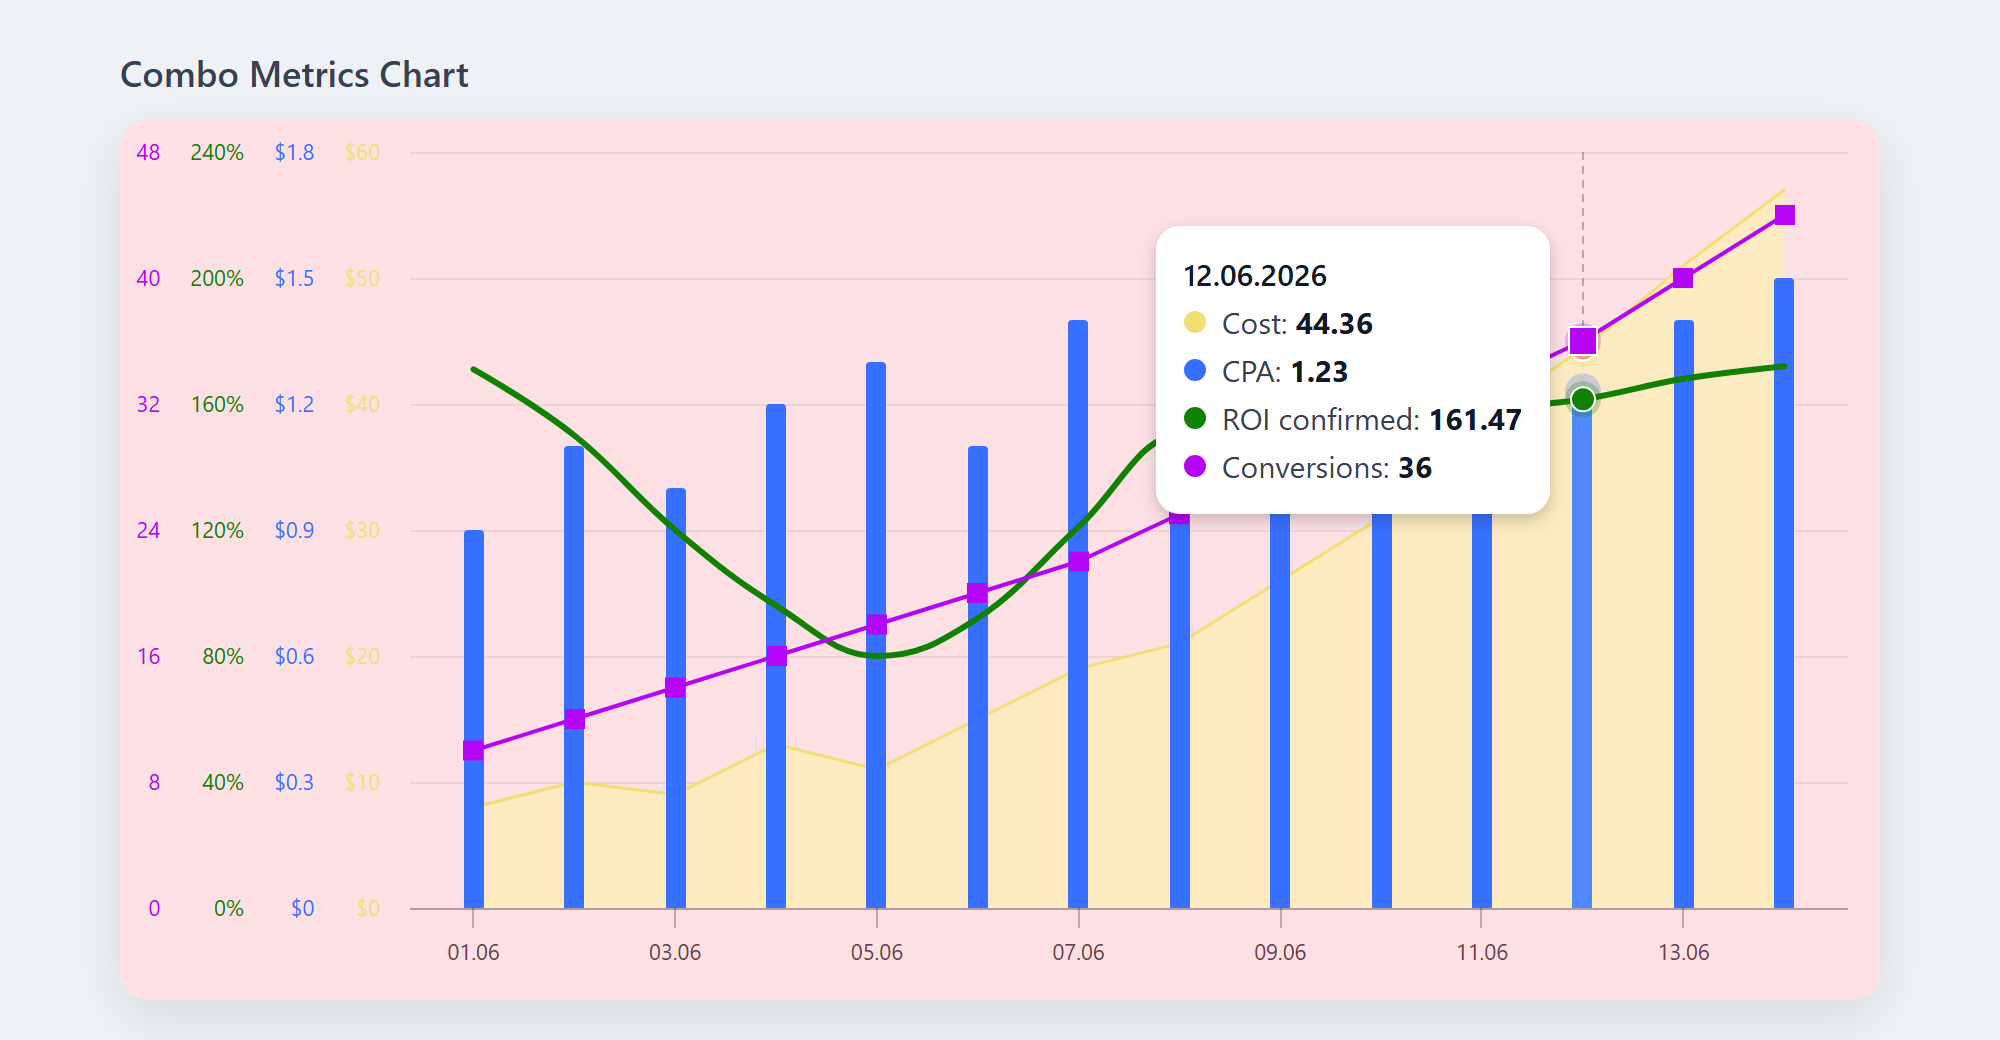
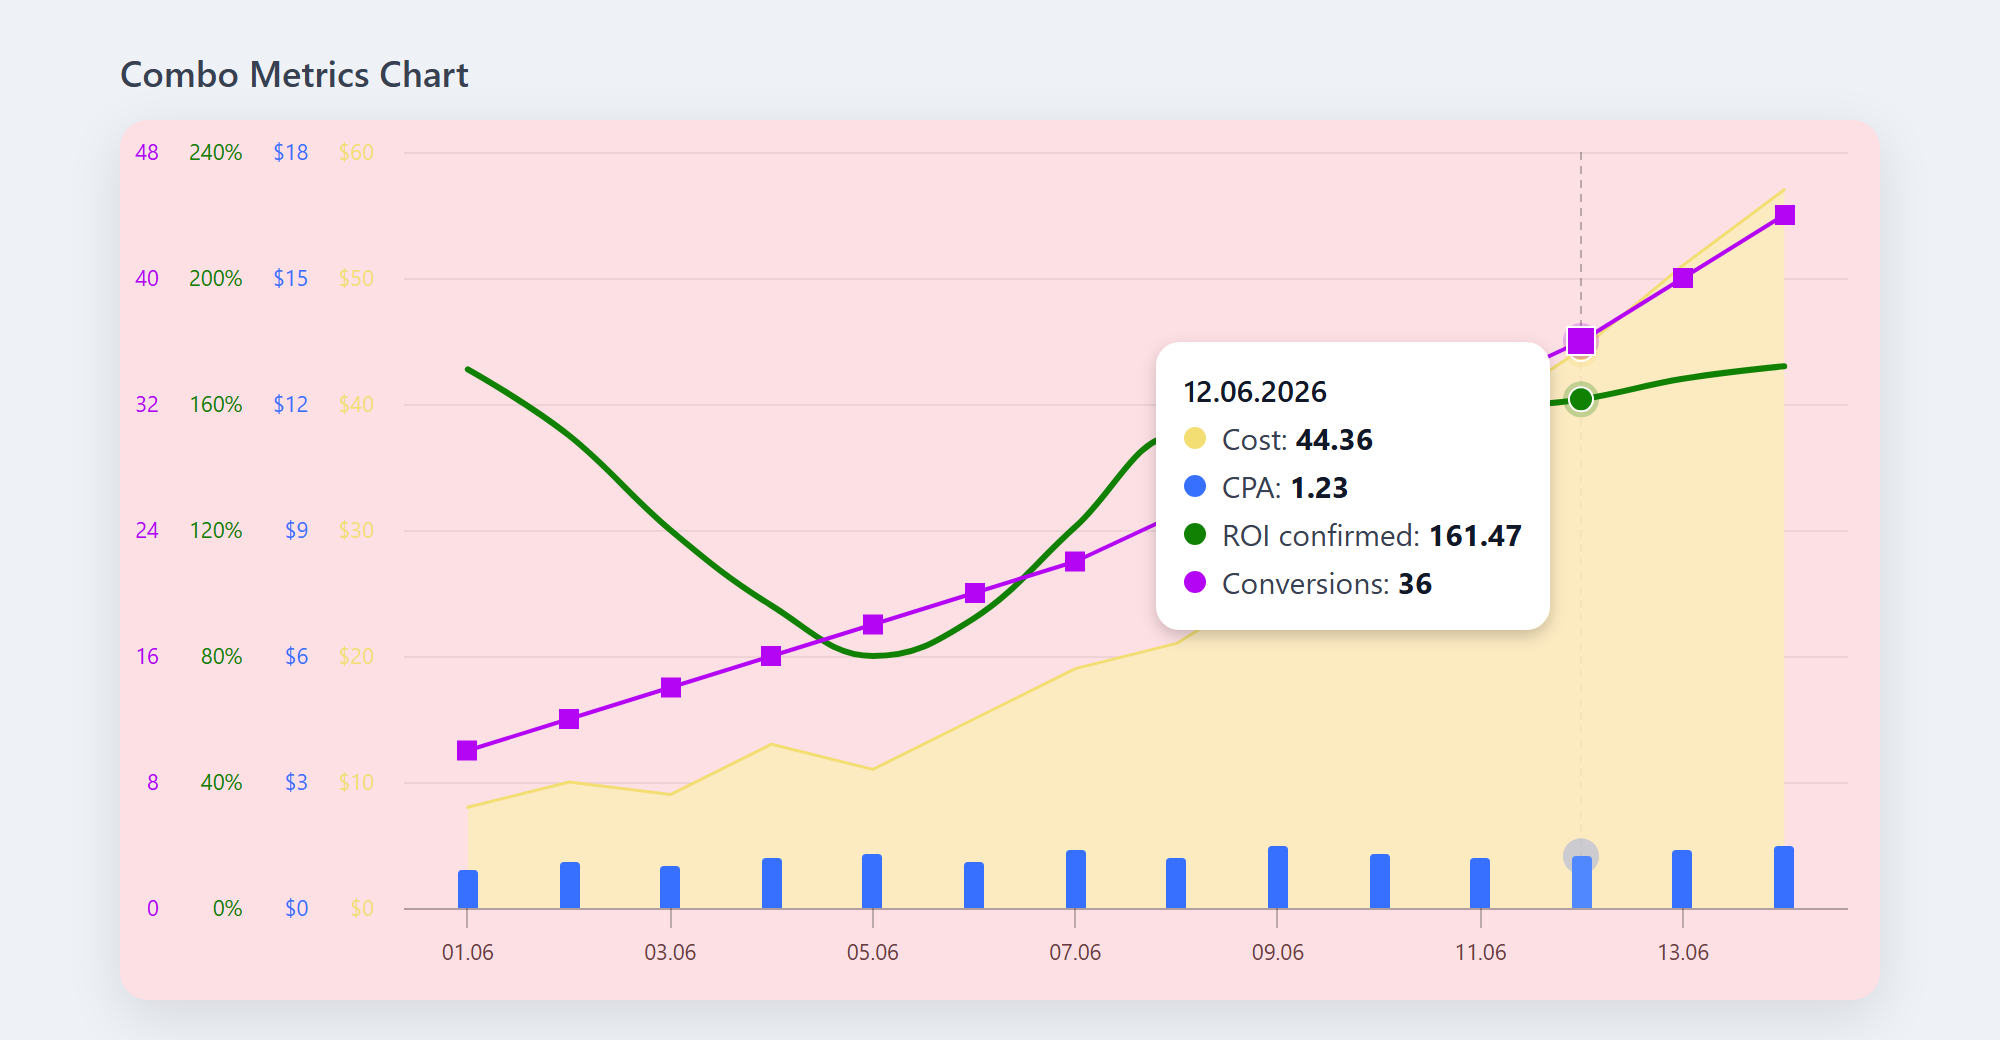
Fix chart collapse; make CPA columns short to match reference 1:1
- Fix layout: page used a flex item that shrink-wrapped its content, so the
  Highcharts container had no definite width and the plot collapsed into a thin
  strip. Switch to a block layout with margin:auto (definite width always).
- Add optional SeriesConfig.axisMax; set CPA axisMax:18 so the column bars stay
  short and hug the baseline, matching the reference.
- Sync README (EN/RU) sample colors and document axisMax; refresh screenshot.
- Update docs/PLAN.md.

diff --git a/src/index.css b/src/index.css
@@ -12,15 +12,19 @@ body {
     Arial, sans-serif;
   background: #eef1f6;
   min-height: 100vh;
-  display: flex;
-  align-items: center;
-  justify-content: center;
   padding: 24px;
 }
 
+/*
+ * Block layout with `margin: auto` (not flex) so the page — and therefore the
+ * chart container — always has a *definite* width. A flex item shrink-wraps to
+ * its content, which leaves Highcharts without a width to measure and collapses
+ * the plot into a thin strip.
+ */
 .page {
   width: 100%;
   max-width: 880px;
+  margin: 40px auto;
 }
 
 .page__title {

diff --git a/src/types.ts b/src/types.ts
@@ -19,6 +19,12 @@ export interface SeriesConfig {
   axisFormat?: string;
   /** Decimal places used for this series' value in the tooltip. Defaults to 2. */
   tooltipDecimals?: number;
+  /**
+   * Optional fixed maximum for this series' own Y axis. Use it to keep a series
+   * visually small (e.g. short `column` bars hugging the baseline, as in the
+   * reference) instead of auto-scaling to fill its axis. Defaults to auto.
+   */
+  axisMax?: number;
 }
 
 /** Full chart input: shared date axis + exactly four sequences. */

diff --git a/src/ComboChart.tsx b/src/ComboChart.tsx
@@ -47,6 +47,8 @@ export default function ComboChart({ data, height = 440 }: ComboChartProps) {
       gridLineColor: 'rgba(0, 0, 0, 0.06)',
       lineWidth: 0,
       min: 0,
+      // Optional fixed max keeps a series small (e.g. short column bars).
+      max: s.axisMax,
       opposite: false,
       showEmpty: false,
     }));

diff --git a/src/data.ts b/src/data.ts
@@ -47,6 +47,8 @@ export const sampleData: ChartData = {
       color: '#3770ff',
       axisFormat: '${value}',
       tooltipDecimals: 2,
+      // Fixed axis max keeps the bars short and hugging the baseline (reference look).
+      axisMax: 18,
       data: [0.9, 1.1, 1.0, 1.2, 1.3, 1.1, 1.4, 1.2, 1.5, 1.3, 1.2, 1.23, 1.4, 1.5],
     },
     {

diff --git a/docs/PLAN.md b/docs/PLAN.md
@@ -20,10 +20,11 @@
 | 5 | **Пиксельная сверка с эталоном**: фон `#FDE0E4`, плоская заливка area `#FCEBBD`, точные цвета маркеров (Cost `#F2DE73`, CPA `#3770FF`, ROI `#118103`, Conversions `#B405F4`), белый тултип `ДД.ММ.ГГГГ` | ✅ готово |
 | 6 | README на двух языках ([EN](../README.md) / [RU](../README.ru.md)) | ✅ готово |
 | 7 | Корректный скриншот результата + сохранён эталон | ✅ готово |
-| 8 | Высота колонок CPA: оставлены высокие (каждая серия на своей авто-оси) — по решению заказчика | ✅ решено |
-| 9 | Проверка: `npm run typecheck` + `npm run build` | ✅ зелёные |
-| 10 | Публикация в GitHub (`git init`/commit/push, remote) | ⬜ по готовности |
-| 11 | (опционально) Адаптивность под узкие экраны (<~500px 4 оси слева схлопывают график) | ⬜ опционально |
+| 8 | Колонки CPA «короткие» у основания, как в эталоне (`axisMax: 18` на оси) | ✅ готово |
+| 9 | Багфикс: график схлопывался в узкую полоску (flex-элемент сжимался по контенту → Highcharts не получал ширину). Перешли на блочную раскладку с `margin:auto` | ✅ исправлено |
+| 10 | Багфикс: dev/preview сервер слушал только IPv6 `::1` → `ERR_CONNECTION_REFUSED` на `127.0.0.1`. Привязка ко всем интерфейсам (`server.host`/`preview.host`) | ✅ исправлено |
+| 11 | Проверка: `npm run typecheck` + `npm run build` | ✅ зелёные |
+| 12 | Публикация в GitHub (commit/push, remote) | ✅ запушено |
 
 ## Поведение, воспроизведённое из эталона
 - Четыре серии разных типов на одном поле (area / spline / line / column).
@@ -33,6 +34,5 @@
 - Розовый фон поля, плавная анимация появления.
 
 ## Решения
-**Колонки CPA.** В эталоне синие колонки короткие (на крупном `$`-масштабе). По решению
-заказчика оставлены **высокие** — каждая серия рендерится на собственной авто-оси `0…1.8`.
-Это единственное намеренное отступление от эталона.
+**Колонки CPA.** В эталоне синие колонки короткие (на крупном `$`-масштабе). Реализовано
+через `axisMax: 18` для оси CPA — колонки прижаты к основанию, совпадение с эталоном 1:1.

diff --git a/README.md b/README.md
@@ -74,6 +74,8 @@ export interface SeriesConfig {
   data: number[];                            // index-aligned with `dates`
   axisFormat?: string;                       // e.g. '${value}', '{value}%', '{value}'
   tooltipDecimals?: number;                  // default 2
+  axisMax?: number;                          // fixed Y-axis max — keeps a series small
+                                             // (e.g. short column bars), default auto
 }
 ```
 
@@ -86,10 +88,10 @@ import type { ChartData } from './types';
 export const sampleData: ChartData = {
   dates: ['2026-06-01', '2026-06-02', '2026-06-03', '2026-06-04'],
   series: [
-    { name: 'Cost',          type: 'area',   color: '#e7c84a', axisFormat: '${value}', tooltipDecimals: 2, data: [8, 13, 26, 44.36] },
-    { name: 'CPA',           type: 'column', color: '#4f8ef7', axisFormat: '${value}', tooltipDecimals: 2, data: [0.9, 1.2, 1.5, 1.23] },
-    { name: 'ROI confirmed', type: 'spline', color: '#2f9e2f', axisFormat: '{value}%', tooltipDecimals: 2, data: [171, 96, 141, 161.47] },
-    { name: 'Conversions',   type: 'line',   color: '#c724c7', axisFormat: '{value}',  tooltipDecimals: 0, data: [10, 16, 28, 36] },
+    { name: 'Cost',          type: 'area',   color: '#f2de73', axisFormat: '${value}', tooltipDecimals: 2, data: [8, 13, 26, 44.36] },
+    { name: 'CPA',           type: 'column', color: '#3770ff', axisFormat: '${value}', tooltipDecimals: 2, axisMax: 18, data: [0.9, 1.2, 1.5, 1.23] },
+    { name: 'ROI confirmed', type: 'spline', color: '#118103', axisFormat: '{value}%', tooltipDecimals: 2, data: [171, 96, 141, 161.47] },
+    { name: 'Conversions',   type: 'line',   color: '#b405f4', axisFormat: '{value}',  tooltipDecimals: 0, data: [10, 16, 28, 36] },
   ],
 };
 ```

diff --git a/README.ru.md b/README.ru.md
@@ -76,6 +76,8 @@ export interface SeriesConfig {
   data: number[];                            // выровнено по индексу с `dates`
   axisFormat?: string;                       // напр. '${value}', '{value}%', '{value}'
   tooltipDecimals?: number;                  // по умолчанию 2
+  axisMax?: number;                          // фикс. максимум оси Y — держит серию
+                                             // «маленькой» (напр. короткие колонки)
 }
 ```
 
@@ -88,10 +90,10 @@ import type { ChartData } from './types';
 export const sampleData: ChartData = {
   dates: ['2026-06-01', '2026-06-02', '2026-06-03', '2026-06-04'],
   series: [
-    { name: 'Cost',          type: 'area',   color: '#e7c84a', axisFormat: '${value}', tooltipDecimals: 2, data: [8, 13, 26, 44.36] },
-    { name: 'CPA',           type: 'column', color: '#4f8ef7', axisFormat: '${value}', tooltipDecimals: 2, data: [0.9, 1.2, 1.5, 1.23] },
-    { name: 'ROI confirmed', type: 'spline', color: '#2f9e2f', axisFormat: '{value}%', tooltipDecimals: 2, data: [171, 96, 141, 161.47] },
-    { name: 'Conversions',   type: 'line',   color: '#c724c7', axisFormat: '{value}',  tooltipDecimals: 0, data: [10, 16, 28, 36] },
+    { name: 'Cost',          type: 'area',   color: '#f2de73', axisFormat: '${value}', tooltipDecimals: 2, data: [8, 13, 26, 44.36] },
+    { name: 'CPA',           type: 'column', color: '#3770ff', axisFormat: '${value}', tooltipDecimals: 2, axisMax: 18, data: [0.9, 1.2, 1.5, 1.23] },
+    { name: 'ROI confirmed', type: 'spline', color: '#118103', axisFormat: '{value}%', tooltipDecimals: 2, data: [171, 96, 141, 161.47] },
+    { name: 'Conversions',   type: 'line',   color: '#b405f4', axisFormat: '{value}',  tooltipDecimals: 0, data: [10, 16, 28, 36] },
   ],
 };
 ```